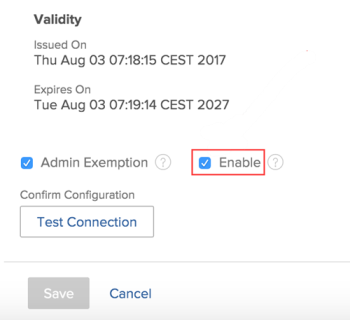
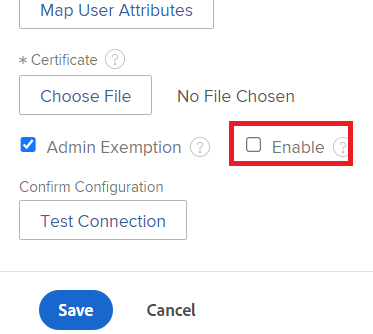
picture and update

diff --git a/help/quicksilver/administration-and-setup/manage-workfront/security/manage-api-keys.md b/help/quicksilver/administration-and-setup/manage-workfront/security/manage-api-keys.md
@@ -94,12 +94,12 @@ You can generate and manage API Keys for users in roles other than Workfront adm
 
    1. Click the **Main Menu** icon ![](assets/main-menu-icon.png) in the upper-right corner of Adobe Workfront, then click **Setup** ![](assets/gear-icon-settings.png).  
    
-   1. Expand **System**, then click **Single Sign-on (SSO)**.  
+   1. Expand **System**, then click **Single Sign-on (SSO)**. 
+   1. In the **Type** field, select the type of SSO your organization uses.
+   1. With the type selected, scroll down and clear the **Enable** checkbox. 
       ![](assets/sysadmin-security-sso-disable-31620-350x320.png)  
+   1. Click **Save**.
 
-   1. Disable the checkbox requiring SSO authentication.
-
-      For example, if your organization uses SAML 2.0, disable **Only Allow SAML 2.0 Authentication**.
 
 1. In the address bar of a browser, enter the following API call:
 
@@ -201,6 +201,6 @@ After you have obtained the X.509 certificate from your Certificate Authority, y
 
 Prior to configuring your instance of Workfront to require an X.509 certificate, perform an API request to the `/login` endpoint using valid username and password parameters. You will receive a 200 response that contains a sessionID.
 
-After making the X.509 certificate a requirement via the customer info page in your instance of Workfront, make another login attempt. This time you will receive a 500 error response with the following message: “Untrusted request. Please contact your system administrator and attach certificate."
+After making the X.509 certificate a requirement via the customer info page in your instance of Workfront, make another login attempt. This time you will receive a 500 error response with the following message: "Untrusted request. Please contact your system administrator and attach certificate."
 
 After confirming that the X.509 certificate is required, perform the same login request with an additional parameter for apiCertificate set to the value of your certificate. If this operation was performed correctly you will receive a 200 response that contains a valid sessionID.
